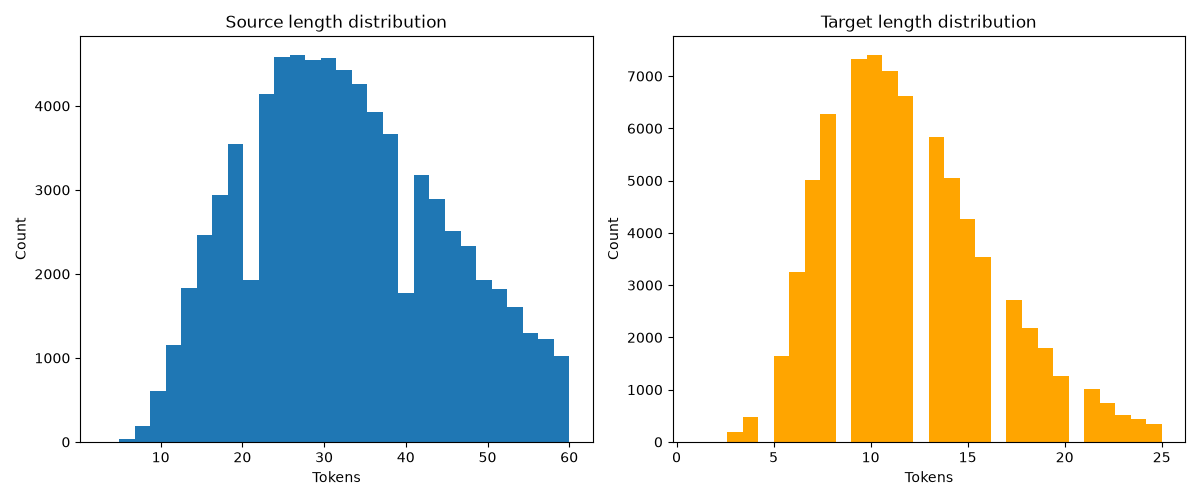
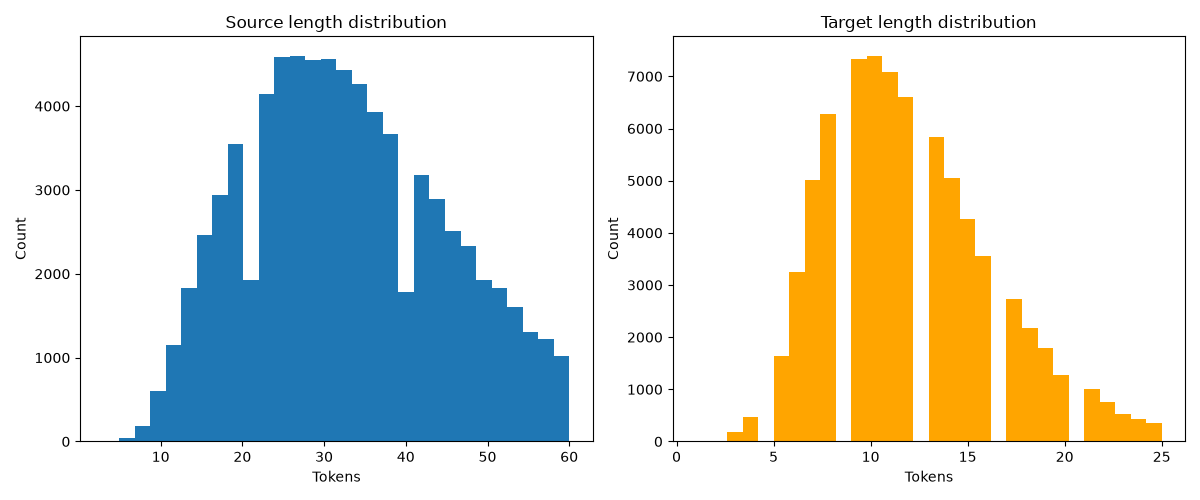
added Wiki-UQA scores

diff --git a/evaluate.py b/evaluate.py
@@ -75,7 +75,7 @@ def calculate_perplexity(pairs):
             mask = (src_tensor != 0).to(device)
             enc_out, h, c = enc(src_tensor)
 
-            outputs, _ = dec(enc_out, h, c, tgt_tensor, teacher_forcing_ratio=0, mask=mask)
+            outputs, _ = dec(enc_out, h, c, tgt_tensor, teacher_forcing_ratio=1.0, mask=mask)
 
             L = tgt_tensor[:, 1:].reshape(-1)
             f_out = outputs.reshape(-1, outputs.shape[-1])
@@ -150,8 +150,7 @@ if __name__ == "__main__":
         "UQA Validation"
     )
 
-    # Wiki-UQA — uncomment once wiki_valid.tsv is prepared
-    # run(
-    #     "data/wiki_valid.tsv",
-    #     "Wiki-UQA"
-    # )
+    run(
+         "data/wiki_valid.tsv",
+         "Wiki-UQA"
+     )

diff --git a/data/prepare_data.py b/data/prepare_data.py
@@ -104,5 +104,8 @@ if __name__ == "__main__":
 
     train_pairs, train_src_lens, train_tgt_lens = build_split(ds["train"], "data/train.tsv")
     valid_pairs, valid_src_lens, valid_tgt_lens = build_split(ds["validation"], "data/valid.tsv")
+        # Wiki-UQA — evaluation only, no training
+    wiki_ds = load_dataset("uqa/Wiki-UQA")
+    wiki_pairs, wiki_src_lens, wiki_tgt_lens = build_split(wiki_ds["train"], "data/wiki_valid.tsv")
 
     plot_length_histograms(train_src_lens, train_tgt_lens, "results/length_histograms.png")
